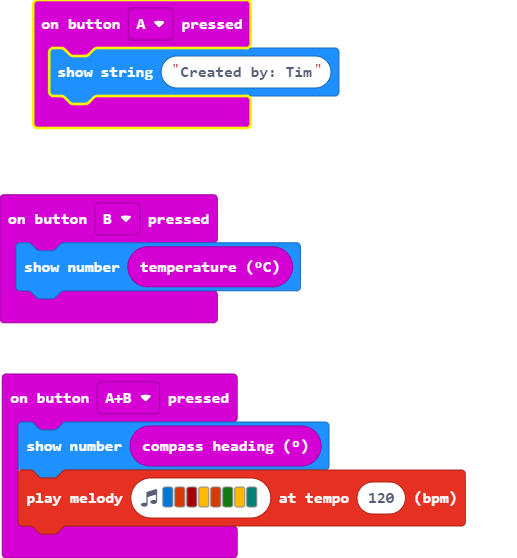
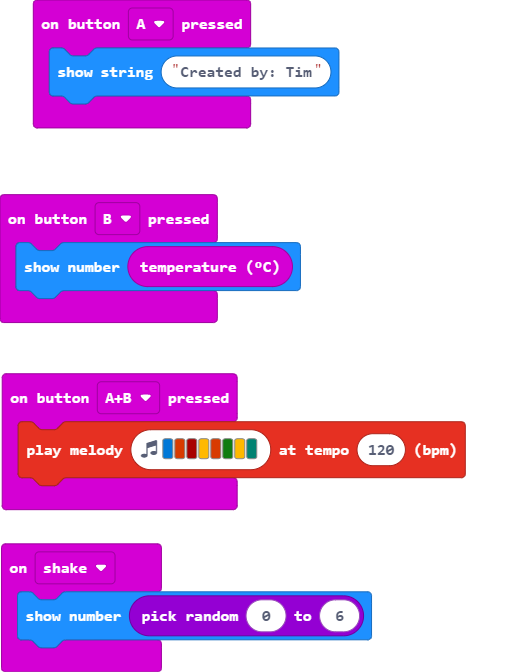
Update main.blocks, main.ts

diff --git a/main.ts b/main.ts
@@ -2,9 +2,11 @@ input.onButtonPressed(Button.A, function () {
     basic.showString("Created by: Tim")
 })
 input.onButtonPressed(Button.AB, function () {
-    basic.showNumber(input.compassHeading())
     music.playMelody("E B C5 A B G A F ", 120)
 })
 input.onButtonPressed(Button.B, function () {
     basic.showNumber(input.temperature())
+})
+input.onGesture(Gesture.Shake, function () {
+    basic.showNumber(randint(0, 6))
 })
